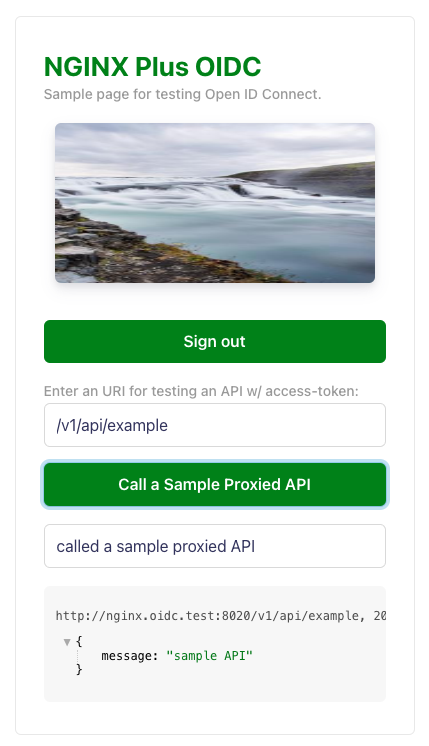
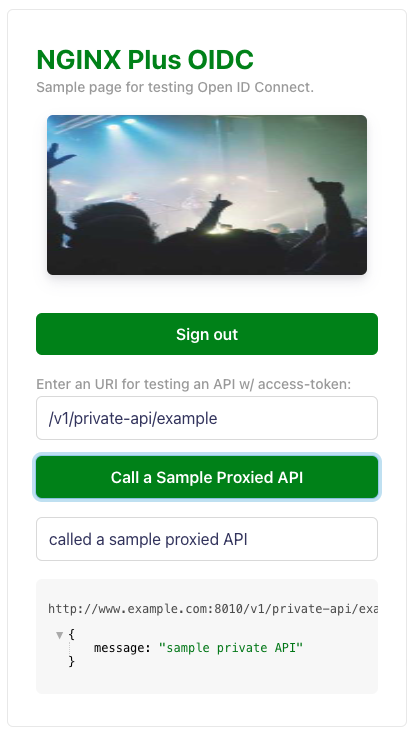
feat: custom authz endpoint & start guide

diff --git a/001-oidc-local-test/openid_connect.js b/001-oidc-local-test/openid_connect.js
@@ -59,7 +59,7 @@ function auth(r, afterSyncCheck) {
             return;
         }
         // Redirect the client to the IdP login page with the cookies we need for state
-        r.return(302, r.variables.oidc_authz_endpoint + getAuthZArgs(r));
+        r.return(302, r.variables.oidc_authz_endpoint + getQueryParamsAuthZ(r));
         return;
     }
     
@@ -302,14 +302,15 @@ function logout(r) {
     r.return(302, r.variables.oidc_logout_endpoint + queryParams);
 }
 
-function getAuthZArgs(r) {
+function getQueryParamsAuthZ(r) {
     // Choose a nonce for this flow for the client, and hash it for the IdP
     var noncePlain = r.variables.request_id;
     var c = require('crypto');
     var h = c.createHmac('sha256', r.variables.oidc_hmac_key).update(noncePlain);
     var nonceHash = h.digest('base64url');
-    var authZArgs = "?response_type=code&scope=" + r.variables.oidc_scopes + "&client_id=" + r.variables.oidc_client + "&redirect_uri="+ r.variables.redirect_base + r.variables.redir_location + "&nonce=" + nonceHash;
+    var queryParams = "?response_type=code&scope=" + r.variables.oidc_scopes + "&client_id=" + r.variables.oidc_client + "&redirect_uri="+ r.variables.redirect_base + r.variables.redir_location + "&nonce=" + nonceHash;
 
+    r.variables.nonce_hash = nonceHash;
     r.headersOut['Set-Cookie'] = [
         "auth_redir=" + r.variables.request_uri + "; " + r.variables.oidc_cookie_flags,
         "auth_nonce=" + noncePlain + "; " + r.variables.oidc_cookie_flags
@@ -320,12 +321,18 @@ function getAuthZArgs(r) {
         r.variables.pkce_id = c.createHash('sha256').update(String(Math.random())).digest('base64url');
         var pkce_code_challenge = c.createHash('sha256').update(pkce_code_verifier).digest('base64url');
         r.variables.pkce_code_verifier = pkce_code_verifier;
+        r.variables.pkce_code_challenge = pkce_code_challenge;
 
-        authZArgs += "&code_challenge_method=S256&code_challenge=" + pkce_code_challenge + "&state=" + r.variables.pkce_id;
+        queryParams += "&code_challenge_method=S256&code_challenge=" + pkce_code_challenge + "&state=" + r.variables.pkce_id;
     } else {
-        authZArgs += "&state=0";
+        queryParams += "&state=0";
     }
-    return authZArgs;
+    if (r.variables.oidc_authz_query_params_option == REPLACE_PARAMS) {
+        queryParams = '?' + r.variables.oidc_authz_query_params;
+    } else if (r.variables.oidc_authz_query_params_option == EXTRA_PARAMS) {
+        queryParams += '&' + r.variables.oidc_authz_query_params;
+    }
+    return queryParams;
 }
 
 function idpClientAuth(r) {

diff --git a/001-oidc-local-test/README.md b/001-oidc-local-test/README.md
@@ -23,7 +23,7 @@ This is to provide how to set up IdP, NGINX Plus and locally test OIDC flow in y
   ```bash
   $ sudo vi /etc/hosts or notepad.exe c:\Windows\System32\Drivers\etc\hosts
 
-  127.0.0.1 nginx.keycloak.test
+  127.0.0.1 www.example.com
   127.0.0.1 host.docker.internal
   ```
 
@@ -73,7 +73,7 @@ This is to provide how to set up IdP, NGINX Plus and locally test OIDC flow in y
 
 ## 3. Running a Browser and Checking If Bundle Page Works
 
-- Run a Web Browser with `http://nginx.oidc.test:8020/`, and check if the bundle frontend landing page is shown:
+- Run a Web Browser with `http://www.example.com:8010/`, and check if the bundle frontend landing page is shown:
 
   ![](./img/bundle-frontend-landing-page.png)
 
@@ -95,15 +95,15 @@ Choose one of your prefered IdPs, and set up your IdP by referencing the followi
 >   - **Client ID**: `my-client-id`
 >   - **Access Type**: `public` for PKCE
 >   - **Valid Redirected URIs**:
->     - `http://nginx.oidc.test:8020/_codexch`
->     - `http://nginx.oidc.test:8020/v2/_logout`
+>     - `http://www.example.com:8010/_codexch`
+>     - `http://www.example.com:8010/_logout`
 > - The above references will be eventually consolidated into the [NGINX Docs](https://docs.nginx.com/nginx/deployment-guides/single-sign-on/). So feel free to contribute the repo to make better examples for each IdP as references.
 
 ## 5. Configuring NGINX Plus
 
 Update the NGINX Plus configuration file if you want. Otherwise, skip the following steps for your quick test as the minimal config information is already provided in this repo.
 
-- In the `openid_connect_configuration.conf`, find and update `$oidc_authz_endpoint`, `$oidc_token_endpoint`, `$oidc_jwt_keyfile`, `$oidc_end_session_endpoint`, `$oidc_userinfo_endpoint`, `$oidc_client`, `$oidc_pkce_enable`, `$oidc_client_secret`, and `$oidc_scopes` upon your setup in IdP.
+- In the `openid_connect_configuration.conf`, find and update `$oidc_authz_endpoint`, `$oidc_token_endpoint`, `$oidc_jwt_keyfile`, `$oidc_logout_endpoint`, `$oidc_userinfo_endpoint`, `$oidc_client`, `$oidc_pkce_enable`, `$oidc_client_secret`, and `$oidc_scopes` upon your setup in IdP.
 
   ```nginx
     map $host $oidc_authz_endpoint {
@@ -118,7 +118,7 @@ Update the NGINX Plus configuration file if you want. Otherwise, skip the follow
         default "http://host.docker.internal:8080/auth/realms/master/protocol/openid-connect/certs";
     }
 
-    map $host $oidc_end_session_endpoint {
+    map $host $oidc_logout_endpoint {
         default "http://host.docker.internal:8080/auth/realms/master/protocol/openid-connect/logout";
     }
 
@@ -142,26 +142,30 @@ Update the NGINX Plus configuration file if you want. Otherwise, skip the follow
         default "openid+profile+email+offline_access";
     }
 
+    map $host $oidc_landing_page {
+        # Where to send browser after successful login. This option is only
+        # recommended for scenarios where a landing page shows default information
+        # without login, and the RP redirects to the landing page after successful
+        # login from the OP. If this is empty, then the RP redirects to $request_uri.
+        default "";
+        www.example.com $redirect_base;
+    }
+
     map $host $post_logout_return_uri {
-        # The following examples can be replaced with a custom logout page, or
-        # a complete URL to be redirected after successful logout from the IdP.
+        # Where to send browser after the RP requests /logout to the OP, and after
+        # the RP (/_logout) is called by the OP and cleans cookies. The following
+        # If this is empty, then the RP redirects to $request_uri.
 
-        # Example 1: Redirect to the original langding page.
-        #            ./docker/build-context/nginx/sample/proxy_server_frontend.conf
-        #              -> redirect to the '/' location block
-        #            ./docker/build-context/content/index.html
-        #
-        default $redirect_base;
+        default "";
 
-        # Example 2: Redirect to a custom logout page
-        #            ./docker/build-context/nginx/sample/proxy_server_frontend.conf
-        #              -> redirect to the '/signout' location block
-        #            ./docker/build-context/content/signout.html
-        #
-        # default $redirect_base/signout;
+        # Edit if you want to redirect to the landing page
+        www.example.com $oidc_landing_page;
 
-        # Example 3: Redirect to an another URL
-        # default https://www.nginx.com;
+        # Edit if you want to redirect to a custom logout page
+        #www.example.com $redirect_base/signout;
+
+        # Edit if you want to redirect to an another complete URL
+        #www.example.com https://www.nginx.com;
     }
   ```
 
@@ -197,12 +201,12 @@ Update the NGINX Plus configuration file if you want. Otherwise, skip the follow
   > - In the [`frontend.conf`](../frontend.conf), you can add additional API endpoints like:
   >
   >   ```nginx
-  >   location /v1/api/example {
+  >   location /v1/private-api {
   >       auth_jwt "" token=$access_token;      # Use $session_jwt for Azure AD
   >       auth_jwt_key_request /_jwks_uri;      # Enable when using URL
   >
   >       proxy_set_header Authorization "Bearer $access_token";
-  >       proxy_pass http://my_backend_app;
+  >       proxy_pass http://my_backend;
   >   }
   >   ```
   >
@@ -210,11 +214,17 @@ Update the NGINX Plus configuration file if you want. Otherwise, skip the follow
 
 - Click `Sign Out` button:
 
-  - Redirect to the original landing page if you configure `$post_logout_return_uri` with `$redirect_base` as the following example:
+  - Redirect to the original landing page if you configure `$post_logout_return_uri` with `$oidc_landing_page` as the following example:
 
     ```nginx
+    map $host $oidc_landing_page {
+        default "";
+        www.example.com $redirect_base;
+    }
+
     map $host $post_logout_return_uri {
-        default $redirect_base;
+      default "";
+      www.example.com $oidc_landing_page;
     }
     ```
 
